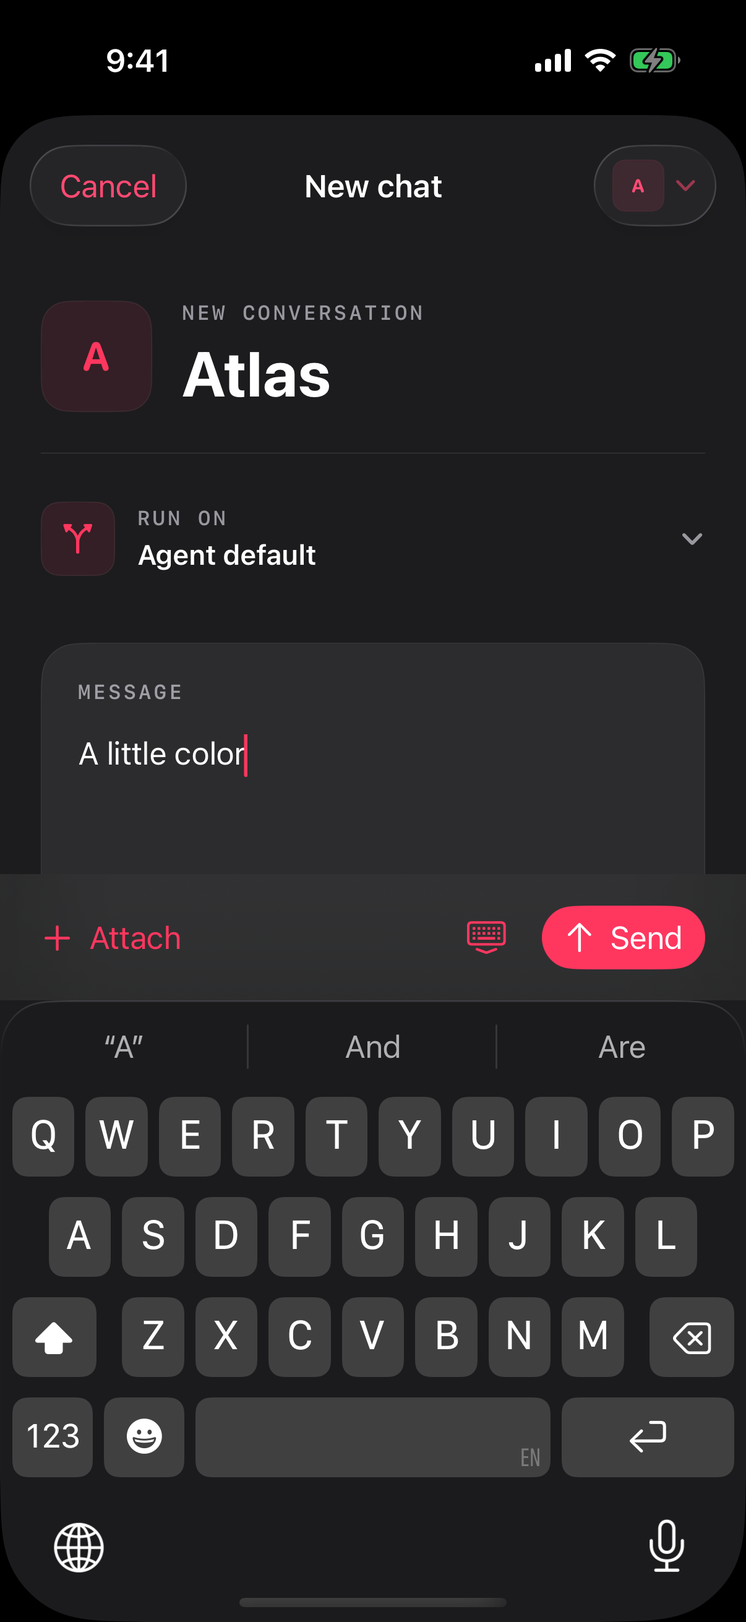
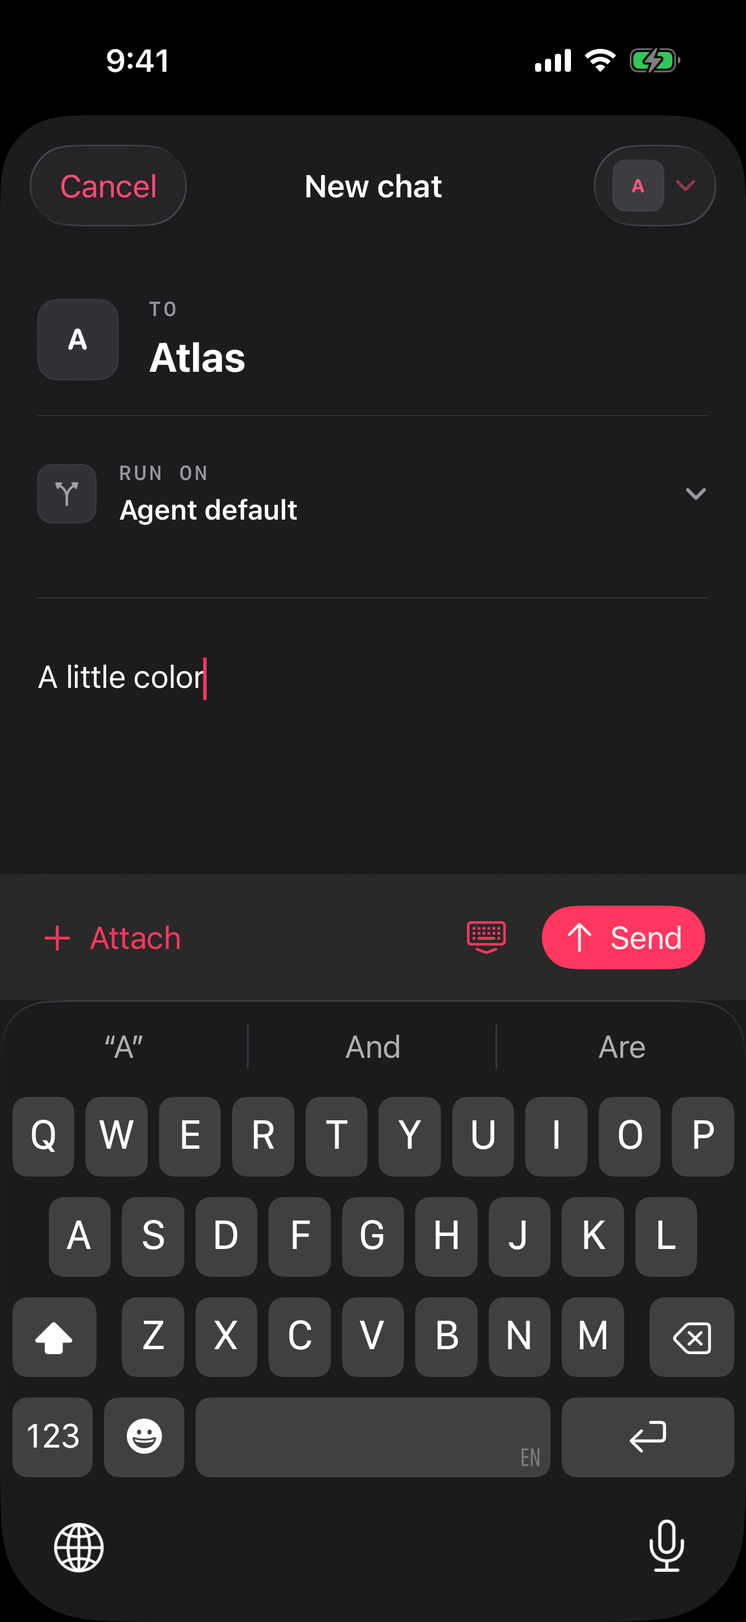
Apply a clearer information hierarchy across native screens

diff --git a/Homem/Features/ChatViews.swift b/Homem/Features/ChatViews.swift
@@ -20,31 +20,34 @@ struct ConversationsView: View {
         NavigationSplitView {
             List {
                 Section {
-                    VStack(alignment: .leading, spacing: 18) {
+                    HStack(spacing: 12) {
                         WorkspaceIdentity()
-                        HStack(alignment: .center, spacing: 14) {
-                            AgentAvatar(name: store.selectedBot?.title ?? "Agent", avatarURL: store.selectedBot?.value["avatar_url"].string ?? "", size: 54)
-                            VStack(alignment: .leading, spacing: 5) {
-                                Eyebrow(text: "CONVERSATIONS WITH")
-                                Text(store.selectedBot?.title ?? "Choose an agent").font(.system(.title, weight: .bold))
-                            }
-                            Spacer()
-                        }
-                    }.padding(.vertical, 8)
-                }.listRowBackground(Color.clear).listRowInsets(EdgeInsets(top: 0, leading: 0, bottom: 8, trailing: 0))
+                        Spacer(minLength: 8)
+                        Text(store.selectedBot?.title ?? "Choose an agent").font(.subheadline.weight(.semibold)).lineLimit(1)
+                    }.padding(.vertical, 6)
+                }.listRowSeparator(.hidden).listRowBackground(Color.clear)
+
 
                 if let error = error ?? store.error { ErrorBanner(message: error) { Task { await load() } } }
-                Section("Conversations") {
+                Section("Recent") {
                     ForEach(sessions.filter { search.isEmpty || $0.title.localizedCaseInsensitiveContains(search) }) { session in
                         let destination = ChatDestination(botID: store.selectedBot?.id ?? "", sessionID: session.id, title: session.title, botName: store.selectedBot?.title ?? "Agent")
                         NavigationLink(value: destination) {
-                            HStack(spacing: 13) {
-                                AgentAvatar(name: store.selectedBot?.title ?? "", avatarURL: store.selectedBot?.value["avatar_url"].string ?? "", size: 34)
+                            HStack(alignment: .top, spacing: 12) {
+                                AgentAvatar(name: store.selectedBot?.title ?? "", avatarURL: store.selectedBot?.value["avatar_url"].string ?? "", size: 30)
                                 VStack(alignment: .leading, spacing: 5) {
                                     Text(session.title).font(.body.weight(.semibold)).lineLimit(2)
-                                    HStack(spacing: 6) { Image(systemName: session.value["type"] == "schedule" ? "clock" : "bubble.left"); Text(session.value["type"].string.fieldLabel.nonEmpty ?? "Chat"); if let date = session.value["updated_at"].string.wireDate { Text("·"); Text(date, style: .date) } }.font(.caption).foregroundStyle(.secondary)
+                                    HStack(spacing: 6) {
+                                        Image(systemName: session.value["type"] == "schedule" ? "clock" : "bubble.left")
+                                        Text(session.value["type"].string.fieldLabel.nonEmpty ?? "Chat")
+                                        if let date = session.value["updated_at"].string.wireDate {
+                                            Spacer(minLength: 4)
+                                            Text(date, format: .dateTime.month(.abbreviated).day()).monospacedDigit()
+                                        }
+                                    }.font(.caption).foregroundStyle(.secondary)
+
                                 }
-                            }.padding(.vertical, 7)
+                            }.padding(.vertical, 8)
                         }
                         .contextMenu { Button("Rename", systemImage: "pencil") { rename = session; newTitle = session.title }; Button("Delete", systemImage: "trash", role: .destructive) { deletion = session } }
                         .swipeActions(allowsFullSwipe: false) { Button("Delete") { deletion = session }.tint(.red) }
@@ -52,7 +55,7 @@ struct ConversationsView: View {
                     if !cursor.isEmpty { Button("Load more conversations") { Task { await load(more: true) } } }
                     if sessions.isEmpty && !loading && error == nil { Text("Your next conversation starts here.").foregroundStyle(.secondary).padding(.vertical) }
                 }
-            }.listStyle(.insetGrouped).listRowSpacing(10)
+            }.listStyle(.plain).scrollContentBackground(.hidden).background(Theme.canvas)
                 .navigationTitle("Chats")
                 .searchable(text: $search, prompt: "Find a conversation")
                 .toolbar {

diff --git a/Homem/Features/WorkspaceViews.swift b/Homem/Features/WorkspaceViews.swift
@@ -9,6 +9,8 @@ struct WorkspaceView: View {
     @State private var status: JSONValue = .null
     @State private var error: String?
     @State private var busy = false
+    private enum Tool: String { case files, terminal, desktop }
+    @State private var selectedTool: Tool?
     var body: some View {
         List {
             Section {
@@ -22,15 +24,17 @@ struct WorkspaceView: View {
                         }
                         Spacer()
                     }
-                    StatusPill(text: status.text("status", "state").nonEmpty?.fieldLabel ?? "Loading", color: status.text("status", "state") == "running" ? .green : .secondary)
+                    StatusIndicator(text: status.text("status", "state").nonEmpty?.fieldLabel ?? (error == nil ? "Loading" : "Unavailable"), color: status.text("status", "state") == "running" ? .green : .secondary)
                 }.padding(.vertical, 8)
             }.listRowBackground(Color.clear)
 
             Section {
-                NavigationLink("Files", systemImage: "folder") { FileBrowserView(botID: botID, path: "/data") }
-                NavigationLink("Terminal", systemImage: "terminal") { TerminalScreen(botID: botID) }
-                NavigationLink("Desktop", systemImage: "desktopcomputer") { DesktopScreen(botID: botID) }
-            }
+                ViewThatFits(in: .horizontal) {
+                    HStack(spacing: 10) { workspaceTools }
+                    VStack(spacing: 10) { workspaceTools }
+                }.listRowInsets(EdgeInsets(top: 0, leading: 0, bottom: 0, trailing: 0))
+            }.listRowBackground(Color.clear)
+
             Section("Manage") {
                 ResourceLink(title: "Working directories", icon: "folder.badge.gearshape", spec: .bot(botID, "workdirs", title: "Working directories", detail: "/bots/{bot_id}/workdirs/{workdir_id}"))
                 ResourceLink(title: "Snapshots", icon: "camera", spec: .bot(botID, "container/snapshots", title: "Snapshots"))
@@ -42,12 +46,36 @@ struct WorkspaceView: View {
                 OperationButton(title: "Restore snapshot", path: base + "/container/snapshots/rollback", template: "/bots/{bot_id}/container/snapshots/rollback", method: "POST")
             }
             if let error { ErrorBanner(message: error) }
-        }.navigationTitle(name + "’s workspace").navigationBarTitleDisplayMode(.inline).task { await load() }
+        }.scrollContentBackground(.hidden).background(Theme.canvas).navigationTitle(name + "’s workspace").navigationBarTitleDisplayMode(.inline).task { await load() }
+            .navigationDestination(item: $selectedTool) { tool in
+                switch tool {
+                case .files: FileBrowserView(botID: botID, path: "/data")
+                case .terminal: TerminalScreen(botID: botID)
+                case .desktop: DesktopScreen(botID: botID)
+                }
+            }
+    }
+    @ViewBuilder private var workspaceTools: some View {
+        Button { selectedTool = .files } label: { WorkspaceToolLabel(title: "Files", symbol: "folder") }.buttonStyle(.plain)
+        Button { selectedTool = .terminal } label: { WorkspaceToolLabel(title: "Terminal", symbol: "terminal") }.buttonStyle(.plain)
+        Button { selectedTool = .desktop } label: { WorkspaceToolLabel(title: "Desktop", symbol: "desktopcomputer") }.buttonStyle(.plain)
     }
     func load() async { do { status = try await store.api?.call(base + "/container") ?? .null; error = nil } catch { self.error = error.localizedDescription } }
     func action(_ action: String) async {
         busy = true; defer { busy = false }
         do { _ = try await store.api?.call(base + "/container/" + action, method: "POST"); await load() } catch { self.error = error.localizedDescription }
+    }
+}
+
+private struct WorkspaceToolLabel: View {
+    let title: String
+    let symbol: String
+    var body: some View {
+        VStack(alignment: .leading, spacing: 12) {
+            Image(systemName: symbol).font(.title3.weight(.medium)).foregroundStyle(.secondary)
+            Text(title).font(.subheadline.weight(.semibold)).foregroundStyle(.primary).fixedSize()
+        }.frame(maxWidth: .infinity, alignment: .leading).padding(16).modifier(DetailSurface())
+            .accessibilityElement(children: .ignore).accessibilityLabel(title)
     }
 }
 

diff --git a/Homem/Features/NewConversationView.swift b/Homem/Features/NewConversationView.swift
@@ -66,12 +66,12 @@ struct NewConversationView: View {
         NavigationStack {
             ScrollView {
                 VStack(alignment: .leading, spacing: 24) {
-                    VStack(alignment: .leading, spacing: 22) {
+                    VStack(alignment: .leading, spacing: 18) {
                         HStack(spacing: 16) {
-                            AgentAvatar(name: bot?.title ?? "Agent", avatarURL: bot?.value["avatar_url"].string ?? "", size: 60)
+                            AgentAvatar(name: bot?.title ?? "Agent", avatarURL: bot?.value["avatar_url"].string ?? "", size: 44)
                             VStack(alignment: .leading, spacing: 6) {
-                                Eyebrow(text: "NEW CONVERSATION")
-                                Text(bot?.title ?? "Choose an agent").font(.system(.largeTitle, weight: .bold)).lineLimit(2)
+                                Eyebrow(text: "TO")
+                                Text(bot?.title ?? "Choose an agent").font(.system(.title2, weight: .bold)).lineLimit(2)
                             }
                             Spacer(minLength: 0)
                         }
@@ -85,8 +85,8 @@ struct NewConversationView: View {
                             Button("Try again") { Task { await loadLocations() } }.font(.caption)
                         }
                     }
+                    Divider()
                     VStack(alignment: .leading, spacing: 16) {
-                        Eyebrow(text: "MESSAGE")
                         TextField("Message \(bot?.title ?? "your agent")…", text: $text, axis: .vertical)
                             .lineLimit(5...12).focused($focused).accessibilityIdentifier("newChatMessage")
                         ForEach(Array(attachments.enumerated()), id: \.offset) { index, item in
@@ -101,11 +101,10 @@ struct NewConversationView: View {
                             }.font(.subheadline)
                         }
 
-                    }.padding(20).background(Color(.secondarySystemGroupedBackground), in: RoundedRectangle(cornerRadius: 20))
-                        .overlay(RoundedRectangle(cornerRadius: 20).strokeBorder(.primary.opacity(0.06), lineWidth: 0.5))
+                    }.padding(.vertical, 8)
                     if let error { ErrorBanner(message: error) }
-                }.padding(22).frame(maxWidth: 640).frame(maxWidth: .infinity)
-            }.scrollDismissesKeyboard(.interactively).background(Color(.systemGroupedBackground))
+                }.padding(Theme.gutter).frame(maxWidth: 640).frame(maxWidth: .infinity)
+            }.scrollDismissesKeyboard(.interactively).background(Theme.canvas)
                 .safeAreaInset(edge: .bottom) {
                     composerActions.padding(.horizontal, 22).padding(.vertical, 12)
                         .frame(maxWidth: 640).frame(maxWidth: .infinity).background(.bar)
@@ -130,13 +129,13 @@ struct NewConversationView: View {
     private var runLocationButton: some View {
         Button { locationPicker = true } label: {
             HStack(spacing: 12) {
-                AgentAvatar(name: location?.name ?? "Workspace", size: 40, symbol: location?.symbol ?? "arrow.triangle.branch")
+                AgentAvatar(name: location?.name ?? "Workspace", size: 32, symbol: location?.symbol ?? "arrow.triangle.branch")
                 VStack(alignment: .leading, spacing: 4) {
                     Eyebrow(text: "RUN ON")
                     Text(location?.name ?? "Agent default").font(.subheadline.weight(.semibold)).foregroundStyle(.primary)
                 }
                 Spacer(minLength: 8)
-                if let location { StatusPill(text: location.available ? "Online" : "Offline", color: location.available ? .green : .secondary) }
+                if let location { StatusIndicator(text: location.available ? "Online" : "Offline", color: location.available ? .green : .secondary) }
                 Image(systemName: "chevron.down").font(.caption.weight(.bold)).foregroundStyle(.secondary)
             }.frame(minHeight: 48).contentShape(Rectangle())
         }.buttonStyle(.plain).disabled(loadingLocations)

diff --git a/Homem/Features/AgentViews.swift b/Homem/Features/AgentViews.swift
@@ -25,12 +25,12 @@ struct AgentsView: View {
                             Text("Create an agent").font(.headline)
                             Spacer()
                             Image(systemName: "arrow.right").font(.subheadline)
-                        }.foregroundStyle(accent).padding(18).background(Color(.secondarySystemGroupedBackground), in: RoundedRectangle(cornerRadius: 20))
+                        }.foregroundStyle(accent).padding(18).modifier(DetailSurface())
                     }.accessibilityIdentifier("createAgent")
                 }
                 if store.isDemo { DemoBadge() }
             }.padding(22).frame(maxWidth: 1100).frame(maxWidth: .infinity)
-        }.background(Color(.systemGroupedBackground)).navigationTitle("Agents")
+        }.background(Theme.canvas).navigationTitle("Agents")
             .searchable(text: $search, prompt: "Find an agent")
             .toolbar { Button { create = true } label: { Image(systemName: "plus") }.accessibilityLabel("Create agent") }
             .refreshable { await store.reload() }
@@ -48,7 +48,7 @@ struct AgentCard: View {
                 AgentAvatar(name: bot.title, avatarURL: bot.value["avatar_url"].string, size: 52)
                 VStack(alignment: .leading, spacing: 6) {
                     Text(bot.title).font(.title2.weight(.bold))
-                    StatusPill(text: bot.value["is_active"].bool ? "Active" : "Paused", color: bot.value["is_active"].bool ? .green : .secondary)
+                    StatusIndicator(text: bot.value["is_active"].bool ? "Active" : "Paused", color: bot.value["is_active"].bool ? .green : .secondary)
                 }
                 Spacer(minLength: 0)
             }
@@ -61,8 +61,7 @@ struct AgentCard: View {
                 Spacer()
                 Image(systemName: "arrow.up.right").fontWeight(.semibold)
             }.font(.caption).foregroundStyle(.secondary)
-        }.padding(20).background(Color(.secondarySystemGroupedBackground), in: RoundedRectangle(cornerRadius: 20))
-            .overlay(RoundedRectangle(cornerRadius: 20).strokeBorder(.primary.opacity(0.045), lineWidth: 0.5))
+        }.padding(Theme.gutter).modifier(DetailSurface())
 
     }
 }
@@ -81,7 +80,7 @@ struct AgentDetailView: View {
         List {
             Section {
                 VStack(alignment: .leading, spacing: 15) {
-                    HStack { AgentAvatar(name: current.title, avatarURL: current.value["avatar_url"].string, size: 72); Spacer(); StatusPill(text: current.value["is_active"].bool ? "Active" : "Paused", color: current.value["is_active"].bool ? .green : .secondary) }
+                    HStack { AgentAvatar(name: current.title, avatarURL: current.value["avatar_url"].string, size: 72); Spacer(); StatusIndicator(text: current.value["is_active"].bool ? "Active" : "Paused", color: current.value["is_active"].bool ? .green : .secondary) }
                     Text(current.title).font(.largeTitle.weight(.bold))
                     Text(current.value["metadata"]["description"].string.nonEmpty ?? "A dedicated workspace, tools, and memories. All yours.").foregroundStyle(.secondary)
                 }.padding(.vertical, 8)

diff --git a/Homem/App/Theme.swift b/Homem/App/Theme.swift
@@ -2,6 +2,11 @@ import SwiftUI
 import ImageIO
 
 enum Theme {
+    static let canvas = Color(uiColor: .systemBackground)
+    static let surface = Color(uiColor: .secondarySystemBackground)
+    static let separator = Color(uiColor: .separator).opacity(0.35)
+    static let cornerRadius: CGFloat = 16
+    static let gutter: CGFloat = 20
     static let schemes = ["system", "memoh", "ocean", "forest", "rose", "amber"]
     static func accent(for scheme: String) -> Color {
         switch scheme {
@@ -96,14 +101,14 @@ struct AgentAvatar: View {
     private var url: URL? { AvatarSource.url(avatarURL, baseURL: baseURL ?? store.api?.baseURL) }
     var body: some View {
         ZStack {
-            RoundedRectangle(cornerRadius: size * 0.25, style: .continuous).fill(accent.opacity(0.10))
+            RoundedRectangle(cornerRadius: size * 0.25, style: .continuous).fill(Color(.tertiarySystemFill))
             if let loaded, loadedURL == url {
                 Image(uiImage: loaded).resizable().scaledToFill()
             } else if let symbol {
-                Image(systemName: symbol).font(.system(size: size * 0.42, weight: .medium)).foregroundStyle(accent)
+                Image(systemName: symbol).font(.system(size: size * 0.42, weight: .medium)).foregroundStyle(.secondary)
             } else {
                 Text(AvatarSource.initials(name)).font(.system(size: size * 0.36, weight: .bold, design: .rounded))
-                    .foregroundStyle(accent)
+                    .foregroundStyle(.primary)
             }
         }
         .frame(width: size, height: size)
@@ -133,6 +138,24 @@ struct WorkspaceIdentity: View {
             AgentAvatar(name: store.workspaceName, avatarURL: store.workspace["avatar_url"].string, size: 22, symbol: "square.stack.3d.up")
             Text(store.workspaceName).font(.subheadline.weight(.medium)).foregroundStyle(.secondary).lineLimit(1)
         }.accessibilityElement(children: .combine)
+    }
+}
+
+struct StatusIndicator: View {
+    let text: String
+    var color: Color = .green
+    var body: some View {
+        HStack(spacing: 5) {
+            Circle().fill(color).frame(width: 5, height: 5)
+            Text(text).font(.caption.weight(.medium))
+        }.foregroundStyle(color).fixedSize(horizontal: false, vertical: true)
+    }
+}
+
+struct DetailSurface: ViewModifier {
+    func body(content: Content) -> some View {
+        content.background(Theme.surface, in: RoundedRectangle(cornerRadius: Theme.cornerRadius))
+            .overlay(RoundedRectangle(cornerRadius: Theme.cornerRadius).strokeBorder(Theme.separator, lineWidth: 0.5))
     }
 }
 

diff --git a/Homem/App/HomeShell.swift b/Homem/App/HomeShell.swift
@@ -25,9 +25,9 @@ struct LibraryView: View {
         List {
             Section {
                 HStack(spacing: 14) {
-                    AgentAvatar(name: store.selectedBot?.title ?? "Library", avatarURL: store.selectedBot?.value["avatar_url"].string ?? "", size: 52)
+                    AgentAvatar(name: store.selectedBot?.title ?? "Library", avatarURL: store.selectedBot?.value["avatar_url"].string ?? "", size: 36)
                     VStack(alignment: .leading, spacing: 5) {
-                        Eyebrow(text: "AGENT LIBRARY")
+                        Eyebrow(text: "AGENT")
                         Text(store.selectedBot?.title ?? "Library").font(.title2.bold())
                     }
                     Spacer()
@@ -50,7 +50,7 @@ struct LibraryView: View {
                 NavigationLink { MarketplaceView() } label: { Label("Supermarket", systemImage: "storefront") }
             }
             if store.isDemo { Section { DemoBadge() } }
-        }.navigationTitle("Library")
+        }.scrollContentBackground(.hidden).background(Theme.canvas).navigationTitle("Library")
             .toolbar {
                 ToolbarItem(placement: .topBarTrailing) {
                     AgentPickerMenu(selection: Binding(get: { store.selectedBot?.id ?? "" }, set: { store.selectedBotID = $0 }))

diff --git a/HomemUITests/HomemUITests.swift b/HomemUITests/HomemUITests.swift
@@ -135,6 +135,7 @@ final class HomemUITests: XCTestCase {
         let agents = XCTAttachment(screenshot: app.screenshot()); agents.name = "Agents"; agents.lifetime = .keepAlways; add(agents)
         app.staticTexts["Atlas"].firstMatch.tap()
         app.buttons["Files, terminal & desktop"].tap()
+        capture(app, "Workspace tools")
         app.buttons["Files"].tap()
         XCTAssertTrue(app.staticTexts["AGENTS.md"].waitForExistence(timeout: 5))
         app.staticTexts["AGENTS.md"].tap()

diff --git a/docs/DESIGN.md b/docs/DESIGN.md
@@ -1,0 +1,29 @@
+# Homem design language
+
+Flighty is the reference for hierarchy and restraint. Study its [published app screenshots](https://apps.apple.com/us/app/flighty-live-flight-tracker/id1358823008) and [product detail screens](https://flighty.com/), especially how a small identity, a primary fact, and supporting status fit together. These observations are translated to an agent client; Flighty's brand artwork and flight-specific metaphors are not assets for Homem.
+
+## Principles in the native app
+
+Lead with the thing the user came to read or do. In Chats, that is the conversation title. In New Chat, it is the message, with the receiving agent and run location close by. In a workspace, it is access to files, terminal, and desktop. Keep repeated workspace and agent context compact.
+
+Use typography and alignment to distinguish information before adding containers. Conversation history is a flat list with separators. A surface groups related controls or a complete agent summary. Avoid stacking a card around every label, decorative counters, marketing headlines, or oversized repeated avatars.
+
+Show the configured identity. Bot and team `avatar_url` images remain intact across toolbar controls, selection panels, and detail screens. A missing image gets a neutral monogram or a workspace symbol. Never infer a mascot from a person's name. Status is a small labeled dot, with color used only where the state warrants it; user-selected accent colors identify actions and selections.
+
+Keep the platform's behavior. The agent selector is a toolbar-anchored popover with real avatars and a selected checkmark. Dismissal, destructive alerts, keyboard avoidance, navigation, and sheets remain native. Labels must stay readable at larger type sizes; tool groups stack when horizontal space is insufficient.
+
+## Shared implementation
+
+| Element | Treatment |
+|---|---|
+| Canvas | `Theme.canvas`: system background, follows appearance |
+| Related controls | `DetailSurface`: secondary background, subtle border, 16-point corner radius |
+| Page inset | `Theme.gutter`: 20 points |
+| Main value | Semibold/bold system text; larger type reserved for the current identity |
+| Metadata | Caption-sized secondary text; monospaced digits for dates and counts |
+| Short section label | `Eyebrow`, used sparingly for context |
+| Identity image | `AgentAvatar`: real image, clipped consistently, neutral fallback |
+| State | `StatusIndicator`: labeled dot; no decorative badge collection |
+| Selection | User's accent, checkmark, and accessibility value |
+
+Use these patterns across future screens. Verify light and dark appearance, long names, keyboard-visible composition, and iPhone/iPad layouts with actual screen captures before release.

diff --git a/docs/VALIDATION.md b/docs/VALIDATION.md
@@ -61,6 +61,13 @@ Screenshots from the passing UI run:
 - iPhone 17 Pro / iOS 26.5: **23 tests passed**, zero failures (`Test-Homem-2026.09.17_19-53-06-+0900.xcresult`), covering image decoding, URL resolution, official sign-in, dropdown selection, first-message sending, deletion cancellation, workspace files, and Dark/Rose persistence. Screenshots of both anchored dropdowns, chat setup, the chat list, agents, and dark mode were exported and inspected.
 - iPad (A16): the new-chat/dropdown/keyboard flow and 16 core/sign-in checks passed in `Test-Homem-2026.09.17_19-55-52-+0900.xcresult`. The iPad floating-tab accessibility selector was corrected for the theme test; the final theme and valid/invalid image checks both passed in `Test-Homem-2026.09.17_19-57-33-+0900.xcresult`.
 
+## Design-language refinement
+
+- Inspected Flighty's published iPhone screenshots and detail views, and translated the hierarchy into [Homem's design rules](DESIGN.md). Shared canvas/surface tokens, restrained labeled status dots, flat conversation rows, compact context, and a clean writing surface now govern the main screens.
+- Six iPhone UI flows passed in `Test-Homem-2026.09.17_20-02-49-+0900.xcresult`. The workspace-tools test exposed SwiftUI combining multiple navigation links within a List row; the controls now use independent button routing. The corrected chat/workspace/file-opening flow passed in `Test-Homem-2026.09.17_20-07-11-+0900.xcresult`.
+- All three final iPad flows (chat/workspace files, new chat/dropdowns/keyboard, and Dark/Rose persistence) passed in `Test-Homem-2026.09.17_20-08-14-+0900.xcresult`. Workspace-tool and keyboard-visible dark screenshots were inspected.
+- Updated chat, agent, composer, and dropdown screenshots were exported and visually inspected, including Dark/Rose. Demo screenshots show the neutral fallback identities; server-configured images are used when present.
+
 ## Reproduce
 
 Run `bash scripts/test.sh` from the project root, setting `HOMEM_TEST_DESTINATION` to an installed iOS simulator if needed. This starts the loopback fixture and runs the XCTest targets. Result bundles are local build artifacts and are excluded from source control.

diff --git a/README.md b/README.md
@@ -53,6 +53,10 @@ In **Settings**, choose **Appearance** (System, Light, Dark) and **Color scheme*
 
 See [feature coverage and limits](docs/FEATURES.md) for the distinction between dedicated interfaces, advanced controls, and unverified server-dependent behavior.
 
+## Design
+
+UI changes follow the [Homem design language](docs/DESIGN.md): compact context, clear hierarchy, real bot/workspace images, and restrained use of color.
+
 ## Build and test
 
 The checked-in Xcode project is generated from `project.yml`. Regenerate after changing project configuration or adding source files:
